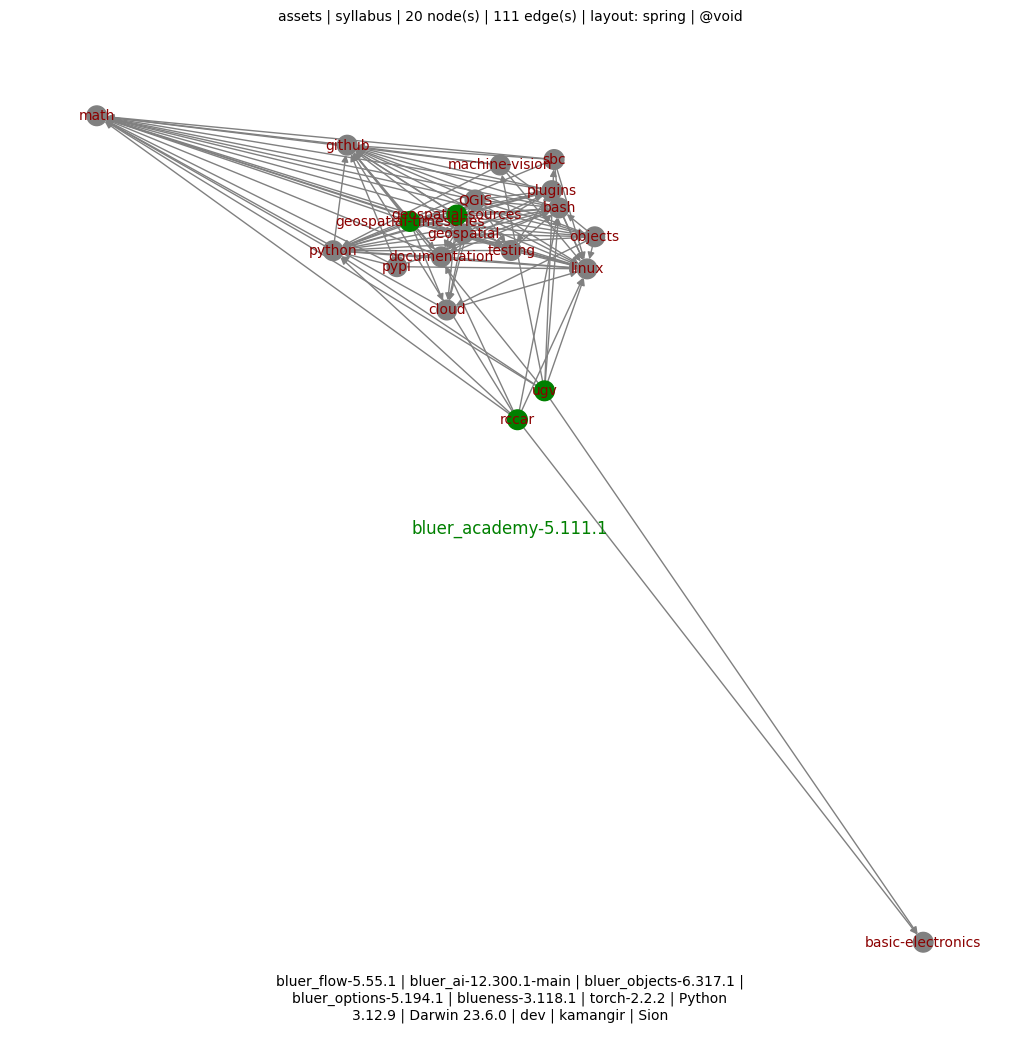
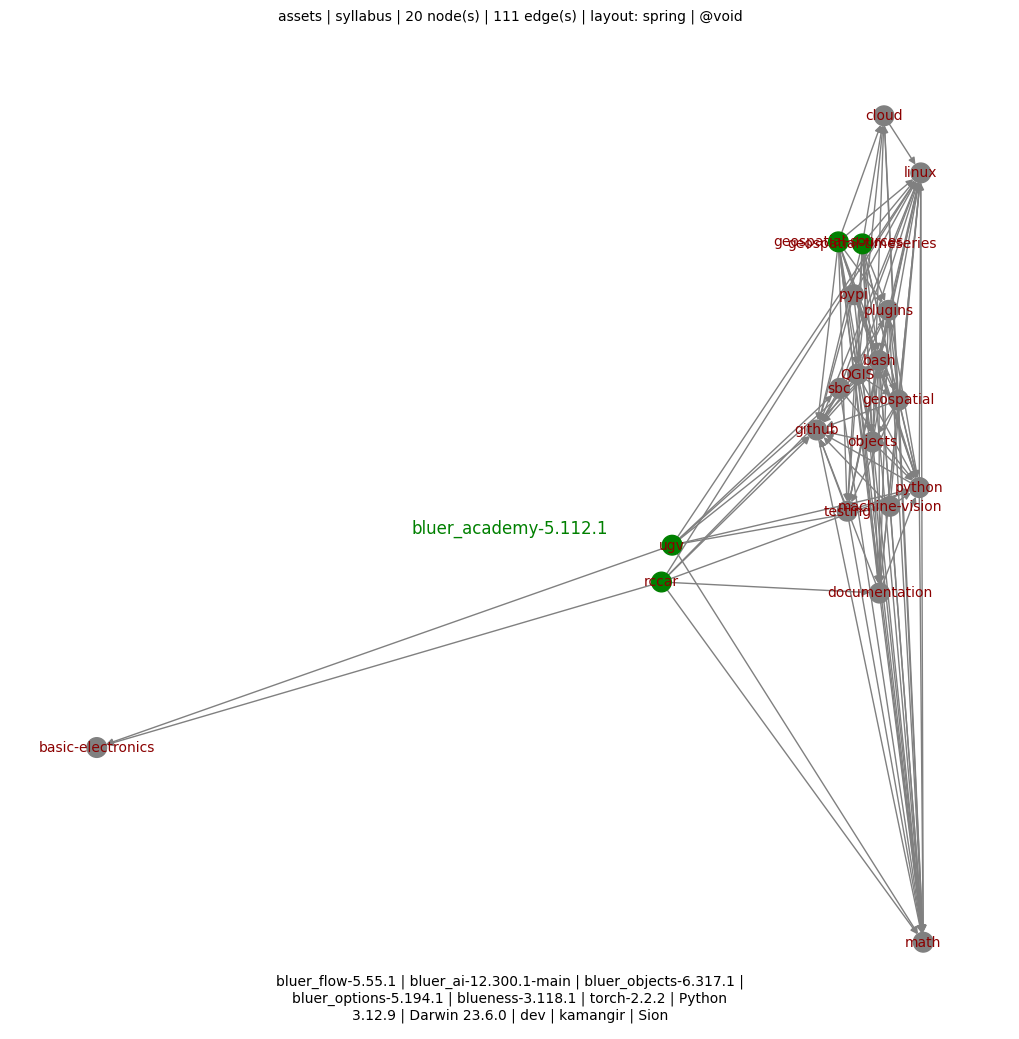
++ - kamangir/bolt#746

diff --git a/bluer_academy/academy/syllabus/rccar.py b/bluer_academy/academy/syllabus/rccar.py
@@ -14,7 +14,7 @@ topic = Topic(
     items={
         "{}/20250723_095155~2_1.gif".format(
             assets_url(
-                suffix="ravin3",
+                suffix="ravin",
                 volume=2,
             )
         ): f"{bluer_ugv_blob}/docs/ravin/ravin3",
@@ -23,6 +23,6 @@ topic = Topic(
                 suffix="ravin4",
                 volume=2,
             )
-        ): f"{bluer_ugv_blob}/docs/ravin/ravin3",
+        ): f"{bluer_ugv_blob}/docs/ravin/ravin4",
     },
 )

diff --git a/bluer_academy/__init__.py b/bluer_academy/__init__.py
@@ -4,7 +4,7 @@ ICON = "📐"
 
 DESCRIPTION = f"{ICON} an academy for practical AI in Iran."
 
-VERSION = "5.111.1"
+VERSION = "5.112.1"
 
 REPO_NAME = "bluer-academy"
 

diff --git a/README.md b/README.md
@@ -15,4 +15,4 @@ pip install bluer-academy
 
 [![pylint](https://github.com/kamangir/bluer-academy/actions/workflows/pylint.yml/badge.svg)](https://github.com/kamangir/bluer-academy/actions/workflows/pylint.yml) [![pytest](https://github.com/kamangir/bluer-academy/actions/workflows/pytest.yml/badge.svg)](https://github.com/kamangir/bluer-academy/actions/workflows/pytest.yml) [![bashtest](https://github.com/kamangir/bluer-academy/actions/workflows/bashtest.yml/badge.svg)](https://github.com/kamangir/bluer-academy/actions/workflows/bashtest.yml) [![PyPI version](https://img.shields.io/pypi/v/bluer-academy.svg)](https://pypi.org/project/bluer-academy/) [![PyPI - Downloads](https://img.shields.io/pypi/dd/bluer-academy)](https://pypistats.org/packages/bluer-academy)
 
-built by 🌀 [`bluer README`](https://github.com/kamangir/bluer-objects/tree/main/bluer_objects/README), based on 📐 [`bluer_academy-5.111.1`](https://github.com/kamangir/bluer-academy).
+built by 🌀 [`bluer README`](https://github.com/kamangir/bluer-objects/tree/main/bluer_objects/README), based on 📐 [`bluer_academy-5.112.1`](https://github.com/kamangir/bluer-academy).

diff --git a/bluer_academy/docs/academy/syllabus/rccar.md b/bluer_academy/docs/academy/syllabus/rccar.md
@@ -9,4 +9,4 @@ requires: [bash](./bash.md), [basic-electronics](./basic-electronics.md), [docum
 
 |   |   |
 | --- | --- |
-| [![image](https://github.com/kamangir/assets2/raw/main/ravin3/20250723_095155~2_1.gif?raw=true)](https://github.com/kamangir/bluer-ugv/blob/main/bluer_ugv/docs/ravin/ravin3) | [![image](https://github.com/kamangir/assets2/raw/main/ravin4/20251014_164022.jpg?raw=true)](https://github.com/kamangir/bluer-ugv/blob/main/bluer_ugv/docs/ravin/ravin3) |
+| [![image](https://github.com/kamangir/assets2/raw/main/ravin/20250723_095155~2_1.gif?raw=true)](https://github.com/kamangir/bluer-ugv/blob/main/bluer_ugv/docs/ravin/ravin3) | [![image](https://github.com/kamangir/assets2/raw/main/ravin4/20251014_164022.jpg?raw=true)](https://github.com/kamangir/bluer-ugv/blob/main/bluer_ugv/docs/ravin/ravin4) |
